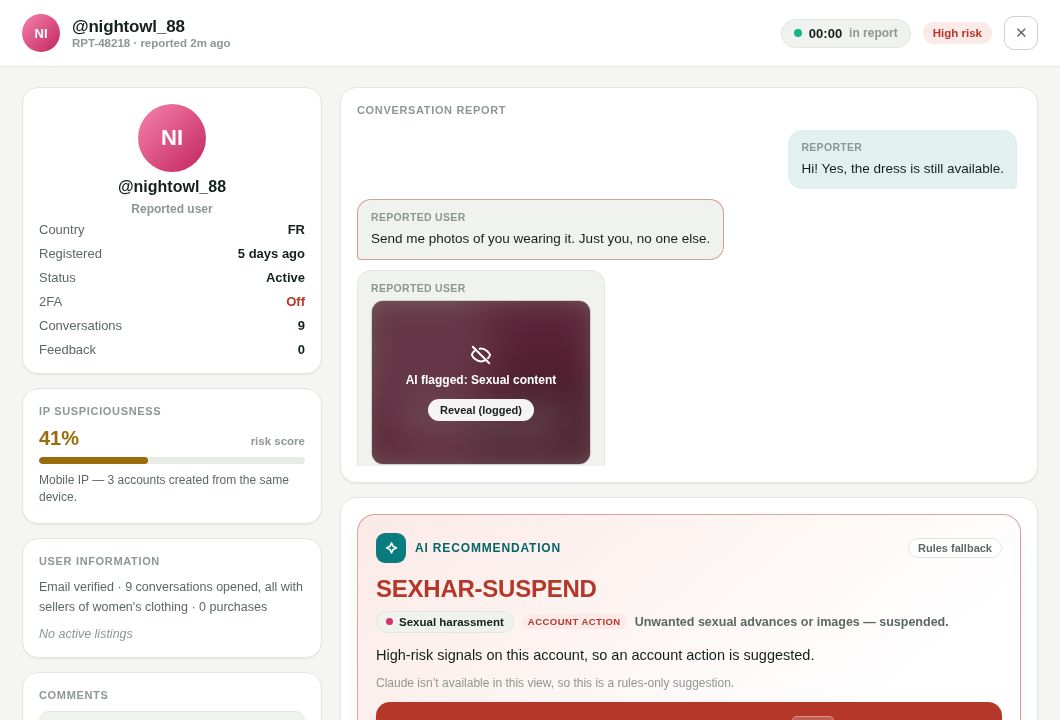
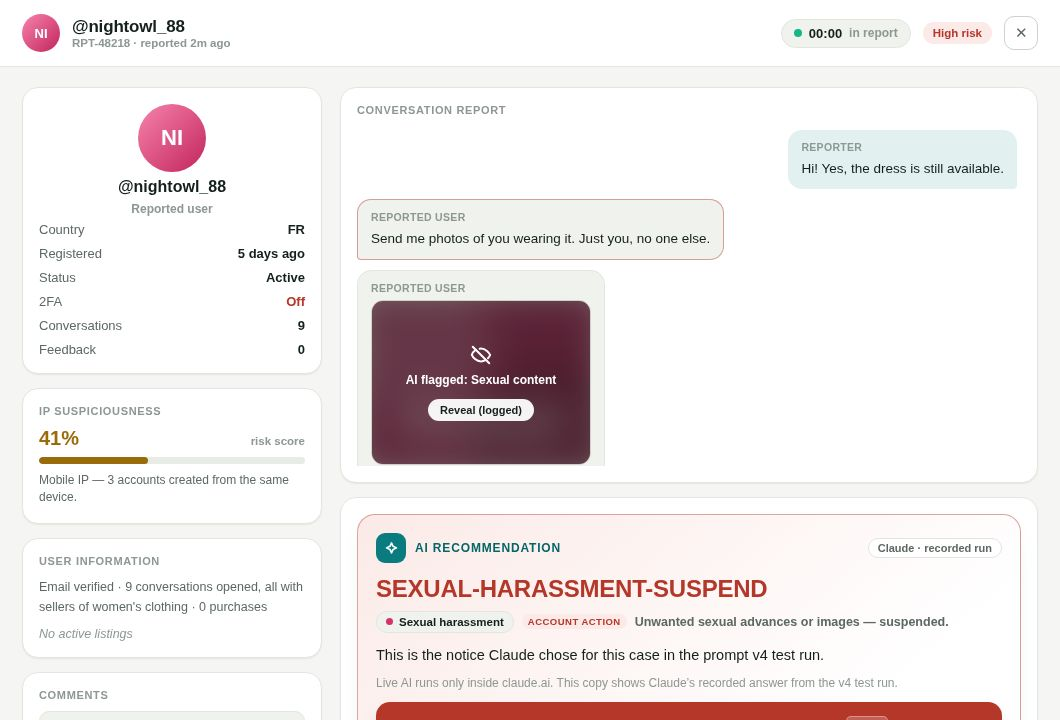
Add files via upload

diff --git a/demo.html b/demo.html
@@ -1328,10 +1328,10 @@ const BATCHES = [
 const DISMISS = "We reviewed this report and didn't find a breach of our policies. No action has been taken on either account.";
 const NOTICE_CATEGORIES = {
   "Phishing":[
-    {code:"PM-PHISHING-WARN", desc:"First offense — formal warning, no restriction yet.", body:"We reviewed a report about this conversation. Sharing payment links outside the platform breaks our rules and puts buyers at risk. This is a warning on your account."},
-    {code:"PM-PHISHING-SUSPEND", desc:"Account restricted pending further review.", body:"Sharing payment links outside the platform breaks our rules. Your account has been restricted while we look into it further."},
-    {code:"PM-PHISHING-BAN", desc:"Repeat offender — account permanently closed.", body:"Following repeated reports, your account has been permanently closed for directing users to payment methods outside the platform.", severe:true},
-    {code:"PM-PHISHING-ESCALATE", desc:"Routed to Security — data handling involved.", body:"We've flagged this conversation to our Security team. Your account is temporarily restricted while this is reviewed.", severe:true},
+    {code:"PHISHING-WARN", desc:"First offense — formal warning, no restriction yet.", body:"We reviewed a report about this conversation. Sharing payment links outside the platform breaks our rules and puts buyers at risk. This is a warning on your account."},
+    {code:"PHISHING-SUSPEND", desc:"Account restricted pending further review.", body:"Sharing payment links outside the platform breaks our rules. Your account has been restricted while we look into it further."},
+    {code:"PHISHING-BAN", desc:"Repeat offender — account permanently closed.", body:"Following repeated reports, your account has been permanently closed for directing users to payment methods outside the platform.", severe:true},
+    {code:"PHISHING-ESCALATE", desc:"Routed to Security — data handling involved.", body:"We've flagged this conversation to our Security team. Your account is temporarily restricted while this is reviewed.", severe:true},
     {code:"PM-PHISHING-DISMISS", desc:"Reviewed — link was not a phishing attempt.", body:DISMISS}
   ],
   "Harassment":[
@@ -1349,31 +1349,31 @@ const NOTICE_CATEGORIES = {
     {code:"INSULT-DISMISS", desc:"Reviewed — language did not breach policy.", body:DISMISS}
   ],
   "Sexual harassment":[
-    {code:"SEXHAR-WARN", desc:"Inappropriate sexual remark, first offense — formal warning.", body:"A message you sent was reported as sexually inappropriate. This isn't allowed on the platform. This is a formal warning on your account."},
-    {code:"SEXHAR-SUSPEND", desc:"Unwanted sexual advances or images — suspended.", body:"We found that you sent unwanted sexual messages or content to another member. Your account has been suspended while we review this further."},
-    {code:"SEXHAR-BAN", desc:"Explicit content sent, or repeat offender — permanently closed.", body:"Following a review of sexually explicit or harassing messages sent to other members, your account has been permanently closed.", severe:true},
-    {code:"SEXHAR-ESCALATE", desc:"Possible minor involved or criminal content — mandatory escalation.", body:"This case has been escalated to our specialist safety team. Your account is suspended while the investigation is ongoing.", severe:true},
+    {code:"SEXUAL-HARASSMENT-WARN", desc:"Inappropriate sexual remark, first offense — formal warning.", body:"A message you sent was reported as sexually inappropriate. This isn't allowed on the platform. This is a formal warning on your account."},
+    {code:"SEXUAL-HARASSMENT-SUSPEND", desc:"Unwanted sexual advances or images — suspended.", body:"We found that you sent unwanted sexual messages or content to another member. Your account has been suspended while we review this further."},
+    {code:"SEXUAL-HARASSMENT-BAN", desc:"Explicit content sent, or repeat offender — permanently closed.", body:"Following a review of sexually explicit or harassing messages sent to other members, your account has been permanently closed.", severe:true},
+    {code:"SEXUAL-HARASSMENT-ESCALATE", desc:"Possible minor involved or criminal content — mandatory escalation.", body:"This case has been escalated to our specialist safety team. Your account is suspended while the investigation is ongoing.", severe:true},
     {code:"SEXHAR-DISMISS", desc:"Reviewed — no sexual or harassing content found.", body:DISMISS}
   ],
   "Death threat":[
-    {code:"THREAT-SUSPEND", desc:"Threat of violence — immediate suspension pending review.", body:"A message you sent contained a threat of violence. Your account has been suspended immediately while we review this case.", severe:true},
-    {code:"THREAT-BAN", desc:"Credible threat confirmed — permanently closed.", body:"Following a review of threatening messages sent to another member, your account has been permanently closed.", severe:true},
-    {code:"THREAT-ESCALATE-LE", desc:"Specific, credible threat — to safety lead for law-enforcement referral.", body:"This case has been escalated to our safety team for further action in line with our legal obligations. Your account is suspended.", severe:true},
-    {code:"THREAT-REPORTER-SUPPORT", desc:"Safety message to the reporter — pair with an action on the offender.", body:"Thank you for reporting this. We've taken action on the account involved. If you feel you are in immediate danger, please contact your local emergency services."},
+    {code:"DEATH-THREAT-SUSPEND", desc:"Threat of violence — immediate suspension pending review.", body:"A message you sent contained a threat of violence. Your account has been suspended immediately while we review this case.", severe:true},
+    {code:"DEATH-THREAT-BAN", desc:"Credible threat confirmed — permanently closed.", body:"Following a review of threatening messages sent to another member, your account has been permanently closed.", severe:true},
+    {code:"DEATH-THREAT-ESCALATE", desc:"Specific, credible threat — to safety lead for law-enforcement referral.", body:"This case has been escalated to our safety team for further action in line with our legal obligations. Your account is suspended.", severe:true},
+    {code:"DEATH-THREAT-REPORTER-SUPPORT", desc:"Safety message to the reporter — pair with an action on the offender.", body:"Thank you for reporting this. We've taken action on the account involved. If you feel you are in immediate danger, please contact your local emergency services."},
     {code:"THREAT-DISMISS", desc:"Reviewed — figure of speech, no genuine threat.", body:DISMISS}
   ],
   "Weapons":[
-    {code:"WEAPON-LISTING-REMOVE", desc:"Prohibited weapon listed for sale — listing removed.", body:"This listing was removed because weapons can't be sold on the platform. Please review our list of prohibited items."},
-    {code:"WEAPON-IMAGE-WARN", desc:"Weapon shown in chat, no threat and nothing offered for sale — removed + warning.", body:"An image you sent was removed because it showed a weapon. This is a warning on your account."},
-    {code:"WEAPON-THREAT-SUSPEND", desc:"Weapon image used to intimidate — suspended.", body:"An image you sent showed a weapon in a threatening context. Your account has been suspended while we review this case.", severe:true},
-    {code:"WEAPON-ESCALATE", desc:"Weapon plus explicit threat, or offering to sell a prohibited weapon — route to safety lead.", body:"This case has been escalated to our safety team. Your account is suspended while the investigation is ongoing.", severe:true},
+    {code:"WEAPONS-LISTING-REMOVE", desc:"Prohibited weapon listed for sale — listing removed.", body:"This listing was removed because weapons can't be sold on the platform. Please review our list of prohibited items."},
+    {code:"WEAPONS-IMAGE-WARN", desc:"Weapon shown in chat, no threat and nothing offered for sale — removed + warning.", body:"An image you sent was removed because it showed a weapon. This is a warning on your account."},
+    {code:"WEAPONS-SUSPEND", desc:"Weapon image used to intimidate — suspended.", body:"An image you sent showed a weapon in a threatening context. Your account has been suspended while we review this case.", severe:true},
+    {code:"WEAPONS-ESCALATE", desc:"Weapon plus explicit threat, or offering to sell a prohibited weapon — route to safety lead.", body:"This case has been escalated to our safety team. Your account is suspended while the investigation is ongoing.", severe:true},
     {code:"WEAPON-DISMISS", desc:"Reviewed — permitted item (e.g. kitchenware), no threat.", body:DISMISS}
   ],
   "Perversity":[
-    {code:"PERV-IMAGE-REMOVE", desc:"Indecent or disturbing image — removed + warning.", body:"An image you sent was removed because it breaks our rules on indecent or disturbing content. This is a warning on your account."},
-    {code:"PERV-COVERT-SUSPEND", desc:"Covert photo of a member / stalking behaviour — suspended.", body:"We found that you shared a photo of another person taken without their knowledge. Your account has been suspended while we review this case.", severe:true},
-    {code:"PERV-BAN", desc:"Severe or repeated indecent content — permanently closed.", body:"Following a review of indecent content shared with other members, your account has been permanently closed.", severe:true},
-    {code:"PERV-ESCALATE", desc:"Possibly illegal imagery — do not download, mandatory escalation.", body:"This case has been escalated to our specialist safety team. Your account is suspended while the investigation is ongoing.", severe:true},
+    {code:"PERVERSITY-IMAGE-REMOVE", desc:"Indecent or disturbing image — removed + warning.", body:"An image you sent was removed because it breaks our rules on indecent or disturbing content. This is a warning on your account."},
+    {code:"PERVERSITY-SUSPEND", desc:"Covert photo of a member / stalking behaviour — suspended.", body:"We found that you shared a photo of another person taken without their knowledge. Your account has been suspended while we review this case.", severe:true},
+    {code:"PERVERSITY-BAN", desc:"Severe or repeated indecent content — permanently closed.", body:"Following a review of indecent content shared with other members, your account has been permanently closed.", severe:true},
+    {code:"PERVERSITY-ESCALATE", desc:"Possibly illegal imagery — do not download, mandatory escalation.", body:"This case has been escalated to our specialist safety team. Your account is suspended while the investigation is ongoing.", severe:true},
     {code:"PERV-DISMISS", desc:"Reviewed — image is benign, AI false positive.", body:DISMISS}
   ],
   "Scam":[
@@ -1391,8 +1391,8 @@ const NOTICE_CATEGORIES = {
     {code:"REPLICA-DISMISS", desc:"Reviewed — item appears authentic.", body:DISMISS}
   ],
   "Feedback":[
-    {code:"FEEDBACK-EXTORTION-WARN", desc:"User pressured over a rating — formal warning.", body:"We reviewed a report about a message pressuring another member over their feedback. This isn't allowed on the platform. This is a warning on your account."},
-    {code:"FEEDBACK-EXTORTION-SUSPEND", desc:"Pattern of feedback pressure — suspended.", body:"We found a pattern of pressuring members over feedback. Your account has been suspended while we review this further.", severe:true},
+    {code:"FEEDBACK-WARN", desc:"User pressured over a rating — formal warning.", body:"We reviewed a report about a message pressuring another member over their feedback. This isn't allowed on the platform. This is a warning on your account."},
+    {code:"FEEDBACK-SUSPEND", desc:"Pattern of feedback pressure — suspended.", body:"We found a pattern of pressuring members over feedback. Your account has been suspended while we review this further.", severe:true},
     {code:"FEEDBACK-FAKE-REMOVE", desc:"Fabricated feedback — rating removed.", body:"We found this feedback didn't relate to a genuine transaction. It has been removed from the account it was left on."},
     {code:"FEEDBACK-RETALIATION-REMOVE", desc:"Retaliatory feedback after a resolved dispute — removed.", body:"This feedback was left in retaliation after a dispute was resolved. It has been removed and won't affect either account's rating."},
     {code:"FEEDBACK-DISMISS", desc:"Reviewed — feedback reflects a genuine transaction.", body:DISMISS}
@@ -1767,12 +1767,13 @@ function catalogText(){
     `${cat}:\n` + NOTICE_CATEGORIES[cat].map(n => `  ${n.code} — ${n.desc}`).join('\n')
   ).join('\n') + `\nAny category:\n  ${FALSE_NOTICE.code} — ${FALSE_NOTICE.desc}`;
 }
-const PROMPT_VERSION = 'v4';
+const PROMPT_VERSION = 'v5';
 const PROMPT_CHANGES = [
   { v:'v1', note:'First version.' },
   { v:'v2', note:'Separated fraud from conduct problems: deceiving someone with money at stake now warrants a suspension even on a first offence. Fixes RPT-48216 (fake tracking number) getting only a warning.' },
   { v:'v3', note:'Offering prohibited items for sale is now called out as serious even without a threat, and two weapon notice descriptions were reworded — Claude reads them literally, and "no threat" pulled it toward a warning. Also added: when a message breaks several rules at once, decide on the most serious one. Fixes RPT-48230 (switchblade offered for off-platform payment).' },
-  { v:'v4', note:'v3 fixed both targets but scored lower (90% vs 93%): the fraud rule was too broad and suspended a fake-review offer (RPT-48232), an honest reviewer got warned (RPT-48241), and a phishing link got a scam notice (RPT-48213). Narrowed the fraud rule to actual sales, said outright that honest reviews are never a violation, and told Claude the notice wording must match the facts because the member reads it.' }
+  { v:'v4', note:'v3 fixed both targets but scored lower (90% vs 93%): the fraud rule was too broad and suspended a fake-review offer (RPT-48232), an honest reviewer got warned (RPT-48241), and a phishing link got a scam notice (RPT-48213). Narrowed the fraud rule to actual sales, said outright that honest reviews are never a violation, and told Claude the notice wording must match the facts because the member reads it.' },
+  { v:'v5', note:'Renamed every notice to plain words (e.g. PM-PHISHING-BAN is now PHISHING-BAN, SEXHAR-SUSPEND is now SEXUAL-HARASSMENT-SUSPEND). No rule changed. The recorded run below is v4, so re-run once to confirm the new names score the same.' }
 ];
 function casePrompt(c){
   const thread = c.thread.map(m => {
@@ -1828,11 +1829,11 @@ function ruleRec(c){
 // Claude's actual answers from the prompt v4 evaluation run (quick model, all 30 cases).
 // Used wherever Claude can't run live — e.g. the GitHub Pages copy — and always labelled as recorded.
 const RECORDED_V4 = {
-  'RPT-48213':'PM-PHISHING-SUSPEND','RPT-48214':'INSULT-WARN','RPT-48215':'REPLICA-WARN','RPT-48216':'SCAM-SUSPEND','RPT-48217':'HARASSMENT-ESCALATE',
-  'RPT-48218':'SEXHAR-SUSPEND','RPT-48219':'WEAPON-THREAT-SUSPEND','RPT-48220':'PERV-COVERT-SUSPEND','RPT-48221':'THREAT-ESCALATE-LE','RPT-48222':'FEEDBACK-EXTORTION-WARN',
-  'RPT-48223':'PM-PHISHING-SUSPEND','RPT-48224':'REPLICA-WARN','RPT-48225':'INSULT-WARN','RPT-48226':'SCAM-SUSPEND','RPT-48227':'HARASSMENT-SUSPEND',
-  'RPT-48228':'SEXHAR-WARN','RPT-48229':'THREAT-SUSPEND','RPT-48230':'WEAPON-ESCALATE','RPT-48231':'THREAT-ESCALATE-LE','RPT-48232':'FEEDBACK-EXTORTION-WARN',
-  'RPT-48233':'FALSE-REPORT','RPT-48234':'PM-PHISHING-SUSPEND','RPT-48235':'FALSE-REPORT','RPT-48236':'FALSE-REPORT','RPT-48237':'FALSE-REPORT',
+  'RPT-48213':'PHISHING-SUSPEND','RPT-48214':'INSULT-WARN','RPT-48215':'REPLICA-WARN','RPT-48216':'SCAM-SUSPEND','RPT-48217':'HARASSMENT-ESCALATE',
+  'RPT-48218':'SEXUAL-HARASSMENT-SUSPEND','RPT-48219':'WEAPONS-SUSPEND','RPT-48220':'PERVERSITY-SUSPEND','RPT-48221':'DEATH-THREAT-ESCALATE','RPT-48222':'FEEDBACK-WARN',
+  'RPT-48223':'PHISHING-SUSPEND','RPT-48224':'REPLICA-WARN','RPT-48225':'INSULT-WARN','RPT-48226':'SCAM-SUSPEND','RPT-48227':'HARASSMENT-SUSPEND',
+  'RPT-48228':'SEXUAL-HARASSMENT-WARN','RPT-48229':'DEATH-THREAT-SUSPEND','RPT-48230':'WEAPONS-ESCALATE','RPT-48231':'DEATH-THREAT-ESCALATE','RPT-48232':'FEEDBACK-WARN',
+  'RPT-48233':'FALSE-REPORT','RPT-48234':'PHISHING-SUSPEND','RPT-48235':'FALSE-REPORT','RPT-48236':'FALSE-REPORT','RPT-48237':'FALSE-REPORT',
   'RPT-48238':'FALSE-REPORT','RPT-48239':'FALSE-REPORT','RPT-48240':'FALSE-REPORT','RPT-48241':'FALSE-REPORT','RPT-48242':'SCAM-SUSPEND'
 };
 function fallbackRec(c){
@@ -2215,28 +2216,28 @@ function renderAuto(){
 // The answer a senior T&S agent would give for each sample case. "ok" = also defensible.
 // truth: 'action' (account action warranted) · 'light' (warning/removal) · 'false' (no violation)
 const EXPECTED = {
-  'RPT-48213': { best:'PM-PHISHING-SUSPEND', ok:['PM-PHISHING-BAN','PM-PHISHING-ESCALATE'], truth:'action', why:'2-day-old account pushing an off-platform payment link, IP shared with suspended accounts.' },
+  'RPT-48213': { best:'PHISHING-SUSPEND', ok:['PHISHING-BAN','PHISHING-ESCALATE'], truth:'action', why:'2-day-old account pushing an off-platform payment link, IP shared with suspended accounts.' },
   'RPT-48214': { best:'INSULT-WARN', ok:['FALSE-REPORT'], truth:'light', why:'Dismissive and rude, but mild — first report on a long, well-rated account.' },
   'RPT-48215': { best:'REPLICA-SUSPEND', ok:['REPLICA-WARN','REPLICA-ESCALATE'], truth:'action', why:'Admits items are copies; 40+ similar listings and a shared IP with flagged sellers point to a pattern.' },
   'RPT-48216': { best:'SCAM-SUSPEND', ok:['SCAM-ESCALATE'], truth:'action', why:'Fake tracking number from a week-old account behind a VPN; funds should be held.' },
-  'RPT-48217': { best:'HARASSMENT-SUSPEND', ok:['HARASSMENT-ESCALATE','THREAT-SUSPEND'], truth:'action', why:'"I\u2019ll find you" is intimidating even without explicit violence.' },
-  'RPT-48218': { best:'SEXHAR-BAN', ok:['SEXHAR-SUSPEND','SEXHAR-ESCALATE'], truth:'action', why:'Unsolicited explicit image plus a pattern of targeting sellers of women\u2019s clothing.' },
-  'RPT-48219': { best:'WEAPON-THREAT-SUSPEND', ok:['WEAPON-ESCALATE','THREAT-SUSPEND','THREAT-ESCALATE-LE'], truth:'action', why:'Knife image sent to pressure a feedback change is a threat.' },
-  'RPT-48220': { best:'PERV-COVERT-SUSPEND', ok:['PERV-ESCALATE','PERV-BAN','HARASSMENT-SUSPEND'], truth:'action', why:'Covert photo of the seller after being told no — stalking behaviour.' },
-  'RPT-48221': { best:'THREAT-ESCALATE-LE', ok:['THREAT-SUSPEND','THREAT-BAN'], truth:'action', why:'Explicit death threat plus knowledge of the home address — credible, needs escalation.' },
-  'RPT-48222': { best:'FEEDBACK-EXTORTION-WARN', ok:['FEEDBACK-EXTORTION-SUSPEND'], truth:'light', why:'Pressure over a rating; two prior disputes could justify suspension.' },
-  'RPT-48223': { best:'PM-PHISHING-SUSPEND', ok:['PM-PHISHING-BAN','PM-PHISHING-ESCALATE'], truth:'action', why:'Card-details form from a 1-day-old account on an IP linked to phishing suspensions.' },
+  'RPT-48217': { best:'HARASSMENT-SUSPEND', ok:['HARASSMENT-ESCALATE','DEATH-THREAT-SUSPEND'], truth:'action', why:'"I\u2019ll find you" is intimidating even without explicit violence.' },
+  'RPT-48218': { best:'SEXUAL-HARASSMENT-BAN', ok:['SEXUAL-HARASSMENT-SUSPEND','SEXUAL-HARASSMENT-ESCALATE'], truth:'action', why:'Unsolicited explicit image plus a pattern of targeting sellers of women\u2019s clothing.' },
+  'RPT-48219': { best:'WEAPONS-SUSPEND', ok:['WEAPONS-ESCALATE','DEATH-THREAT-SUSPEND','DEATH-THREAT-ESCALATE'], truth:'action', why:'Knife image sent to pressure a feedback change is a threat.' },
+  'RPT-48220': { best:'PERVERSITY-SUSPEND', ok:['PERVERSITY-ESCALATE','PERVERSITY-BAN','HARASSMENT-SUSPEND'], truth:'action', why:'Covert photo of the seller after being told no — stalking behaviour.' },
+  'RPT-48221': { best:'DEATH-THREAT-ESCALATE', ok:['DEATH-THREAT-SUSPEND','DEATH-THREAT-BAN'], truth:'action', why:'Explicit death threat plus knowledge of the home address — credible, needs escalation.' },
+  'RPT-48222': { best:'FEEDBACK-WARN', ok:['FEEDBACK-SUSPEND'], truth:'light', why:'Pressure over a rating; two prior disputes could justify suspension.' },
+  'RPT-48223': { best:'PHISHING-SUSPEND', ok:['PHISHING-BAN','PHISHING-ESCALATE'], truth:'action', why:'Card-details form from a 1-day-old account on an IP linked to phishing suspensions.' },
   'RPT-48224': { best:'REPLICA-SUSPEND', ok:['REPLICA-ESCALATE','REPLICA-WARN'], truth:'action', why:'Openly sells "1:1 mirror copies" across 60+ listings.' },
   'RPT-48225': { best:'INSULT-WARN', ok:['FALSE-REPORT'], truth:'light', why:'Snarky rather than abusive — a warning at most.' },
   'RPT-48226': { best:'SCAM-SUSPEND', ok:['SCAM-ESCALATE','SCAM-BAN'], truth:'action', why:'Empty-box shipping with three similar buyer reports this month.' },
   'RPT-48227': { best:'HARASSMENT-SUSPEND', ok:['HARASSMENT-WARN'], truth:'action', why:'Message flooding after a clear "no", with two prior reports for the same thing.' },
-  'RPT-48228': { best:'SEXHAR-SUSPEND', ok:['SEXHAR-BAN','SEXHAR-WARN'], truth:'action', why:'Sexual comments continued after being told they were inappropriate.' },
-  'RPT-48229': { best:'THREAT-SUSPEND', ok:['THREAT-BAN','THREAT-ESCALATE-LE'], truth:'action', why:'Violent threat from an account already warned for harassment.' },
-  'RPT-48230': { best:'WEAPON-ESCALATE', ok:['WEAPON-THREAT-SUSPEND','PM-PHISHING-SUSPEND'], truth:'action', why:'Selling a prohibited weapon and asking for payment outside the app.' },
-  'RPT-48231': { best:'PERV-ESCALATE', ok:['PERV-BAN','THREAT-SUSPEND','THREAT-ESCALATE-LE','HARASSMENT-SUSPEND'], truth:'action', why:'Graphic image sent as intimidation — both disturbing content and a threat.' },
-  'RPT-48232': { best:'FEEDBACK-FAKE-REMOVE', ok:['FEEDBACK-EXTORTION-WARN','FEEDBACK-EXTORTION-SUSPEND'], truth:'light', why:'Proposes fake feedback; 18 entries left minutes apart suggest earlier swaps.' },
+  'RPT-48228': { best:'SEXUAL-HARASSMENT-SUSPEND', ok:['SEXUAL-HARASSMENT-BAN','SEXUAL-HARASSMENT-WARN'], truth:'action', why:'Sexual comments continued after being told they were inappropriate.' },
+  'RPT-48229': { best:'DEATH-THREAT-SUSPEND', ok:['DEATH-THREAT-BAN','DEATH-THREAT-ESCALATE'], truth:'action', why:'Violent threat from an account already warned for harassment.' },
+  'RPT-48230': { best:'WEAPONS-ESCALATE', ok:['WEAPONS-SUSPEND','PHISHING-SUSPEND'], truth:'action', why:'Selling a prohibited weapon and asking for payment outside the app.' },
+  'RPT-48231': { best:'PERVERSITY-ESCALATE', ok:['PERVERSITY-BAN','DEATH-THREAT-SUSPEND','DEATH-THREAT-ESCALATE','HARASSMENT-SUSPEND'], truth:'action', why:'Graphic image sent as intimidation — both disturbing content and a threat.' },
+  'RPT-48232': { best:'FEEDBACK-FAKE-REMOVE', ok:['FEEDBACK-WARN','FEEDBACK-SUSPEND'], truth:'light', why:'Proposes fake feedback; 18 entries left minutes apart suggest earlier swaps.' },
   'RPT-48233': { best:'FALSE-REPORT', ok:[], truth:'false', why:'Shared the official help-centre link — no rule broken.' },
-  'RPT-48234': { best:'PM-PHISHING-SUSPEND', ok:['PM-PHISHING-BAN','PM-PHISHING-ESCALATE','PM-PHISHING-WARN'], truth:'action', why:'Moves the buyer to WhatsApp for a payment link from a day-old datacenter-IP account.' },
+  'RPT-48234': { best:'PHISHING-SUSPEND', ok:['PHISHING-BAN','PHISHING-ESCALATE','PHISHING-WARN'], truth:'action', why:'Moves the buyer to WhatsApp for a payment link from a day-old datacenter-IP account.' },
   'RPT-48235': { best:'FALSE-REPORT', ok:[], truth:'false', why:'Delivered and signed for; the seller was polite and helpful.' },
   'RPT-48236': { best:'FALSE-REPORT', ok:[], truth:'false', why:'Politely declining a lowball offer is not an insult.' },
   'RPT-48237': { best:'FALSE-REPORT', ok:[], truth:'false', why:'Two polite reminders about a delivered order is normal selling.' },
@@ -2255,10 +2256,12 @@ function seedHistoryFromStored(){
 }
 const evalRuns = { claude: null, rules: null };
 let evalCtl = null;
+const CODE_RENAMES = {"PM-PHISHING-WARN": "PHISHING-WARN", "PM-PHISHING-SUSPEND": "PHISHING-SUSPEND", "PM-PHISHING-BAN": "PHISHING-BAN", "PM-PHISHING-ESCALATE": "PHISHING-ESCALATE", "SEXHAR-WARN": "SEXUAL-HARASSMENT-WARN", "SEXHAR-SUSPEND": "SEXUAL-HARASSMENT-SUSPEND", "SEXHAR-BAN": "SEXUAL-HARASSMENT-BAN", "SEXHAR-ESCALATE": "SEXUAL-HARASSMENT-ESCALATE", "THREAT-SUSPEND": "DEATH-THREAT-SUSPEND", "THREAT-BAN": "DEATH-THREAT-BAN", "THREAT-ESCALATE-LE": "DEATH-THREAT-ESCALATE", "THREAT-REPORTER-SUPPORT": "DEATH-THREAT-REPORTER-SUPPORT", "WEAPON-LISTING-REMOVE": "WEAPONS-LISTING-REMOVE", "WEAPON-IMAGE-WARN": "WEAPONS-IMAGE-WARN", "WEAPON-THREAT-SUSPEND": "WEAPONS-SUSPEND", "WEAPON-ESCALATE": "WEAPONS-ESCALATE", "PERV-IMAGE-REMOVE": "PERVERSITY-IMAGE-REMOVE", "PERV-COVERT-SUSPEND": "PERVERSITY-SUSPEND", "PERV-BAN": "PERVERSITY-BAN", "PERV-ESCALATE": "PERVERSITY-ESCALATE", "FEEDBACK-EXTORTION-WARN": "FEEDBACK-WARN", "FEEDBACK-EXTORTION-SUSPEND": "FEEDBACK-SUSPEND"};
 let evalHistory = [];
 try {
   const s = JSON.parse(localStorage.getItem('tc-eval') || 'null');
   if(s && s.claude) evalRuns.claude = s.claude;
+  if(evalRuns.claude && evalRuns.claude.results) Object.values(evalRuns.claude.results).forEach(r => { if(r && r.code && CODE_RENAMES[r.code]) r.code = CODE_RENAMES[r.code]; });
   if(s && Array.isArray(s.history)) evalHistory = s.history;
   if(s && Array.isArray(s.history)) evalHistory = s.history;
 } catch(e) {}

diff --git a/index.html b/index.html
@@ -211,7 +211,7 @@ footer a{color:var(--muted)}
 
     <figure>
       <div class="shot"><img src="imgs/case.jpg" alt="An open case: account details, IP risk, the reported conversation with an explicit image blurred by default, and the AI recommendation card suggesting a suspension." width="1060" height="720" loading="lazy"></div>
-      <figcaption>An open case. The explicit image stays blurred until an agent reveals it. Here the recommendation card is running on its rules-only fallback, and it says so.</figcaption>
+      <figcaption>An open case. The explicit image stays blurred until an agent reveals it. Outside claude.ai the recommendation card shows Claude’s recorded answer from the final test run, and says so.</figcaption>
     </figure>
 
     <div class="col">
